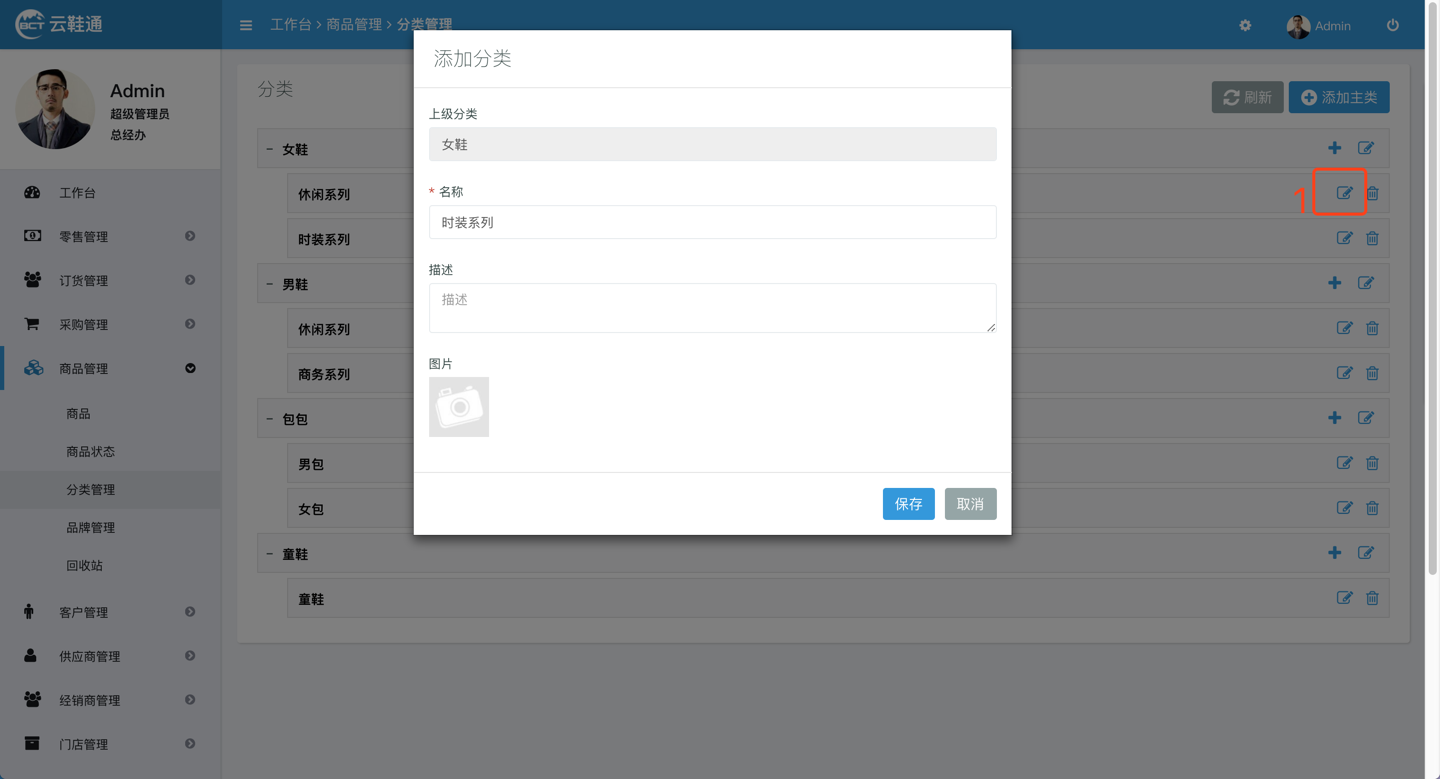
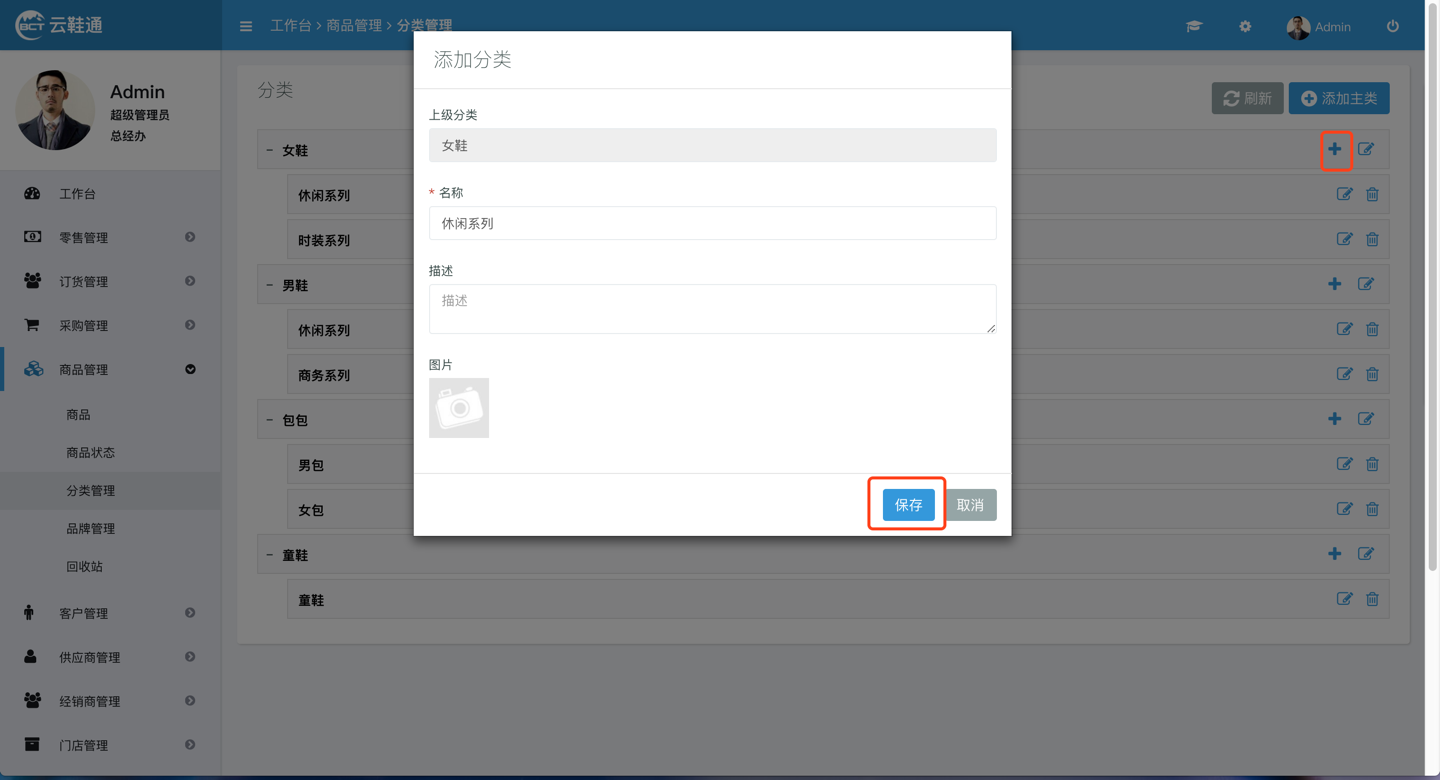
Updates shang-pin-guan-li/shang-pin-fen-lei.md
Auto commit by GitBook Editor

diff --git a/shang-pin-guan-li/shang-pin-fen-lei.md b/shang-pin-guan-li/shang-pin-fen-lei.md
@@ -6,8 +6,10 @@
 
 点击左边导航【商品管理】—【分类管理】，如下图：![](/assets/spgl-flgl-1.png)
 
-点击【添加主类】可添加商品的主分类（一级分类）![](/assets/spgl-fl-4.png)
+点击【添加主类】可添加商品的主分类（一级分类）![](/assets/spgl-flgl-3.png)
 
-点击一级分类上的【+】，可以添加该分类下的二级分类，点击下图按钮，可以编辑对应的分类。![](/assets/spgl-flgl-2.png)_\*1、名称最好不超过5个字，否则在微商城显示不完全。  
+点击一级分类上的【+】，可以添加该分类下的二级分类。![](/assets/spgl-flgl-2.png)
+
+_\*1、名称最好不超过5个字，否则在微商城显示不完全。  
   2、分类图片将会在微商城分类列表显示_
 
